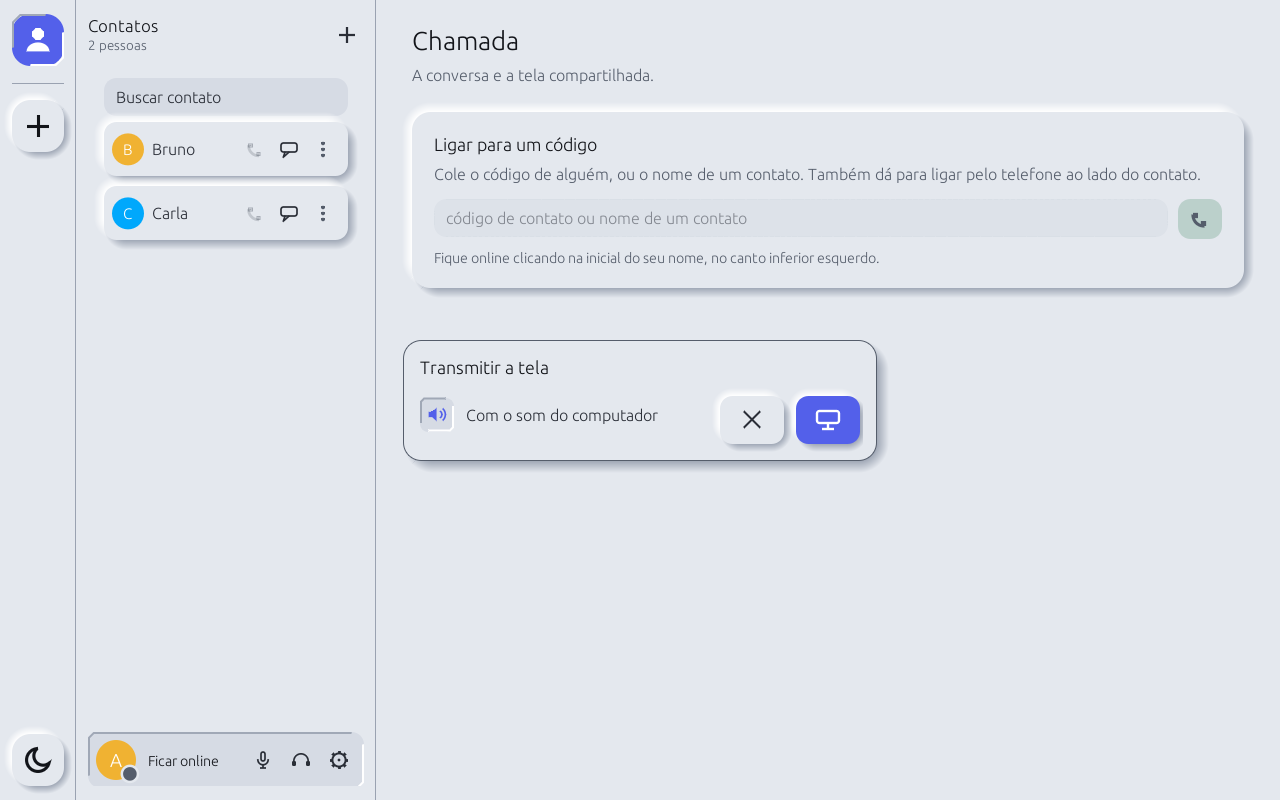
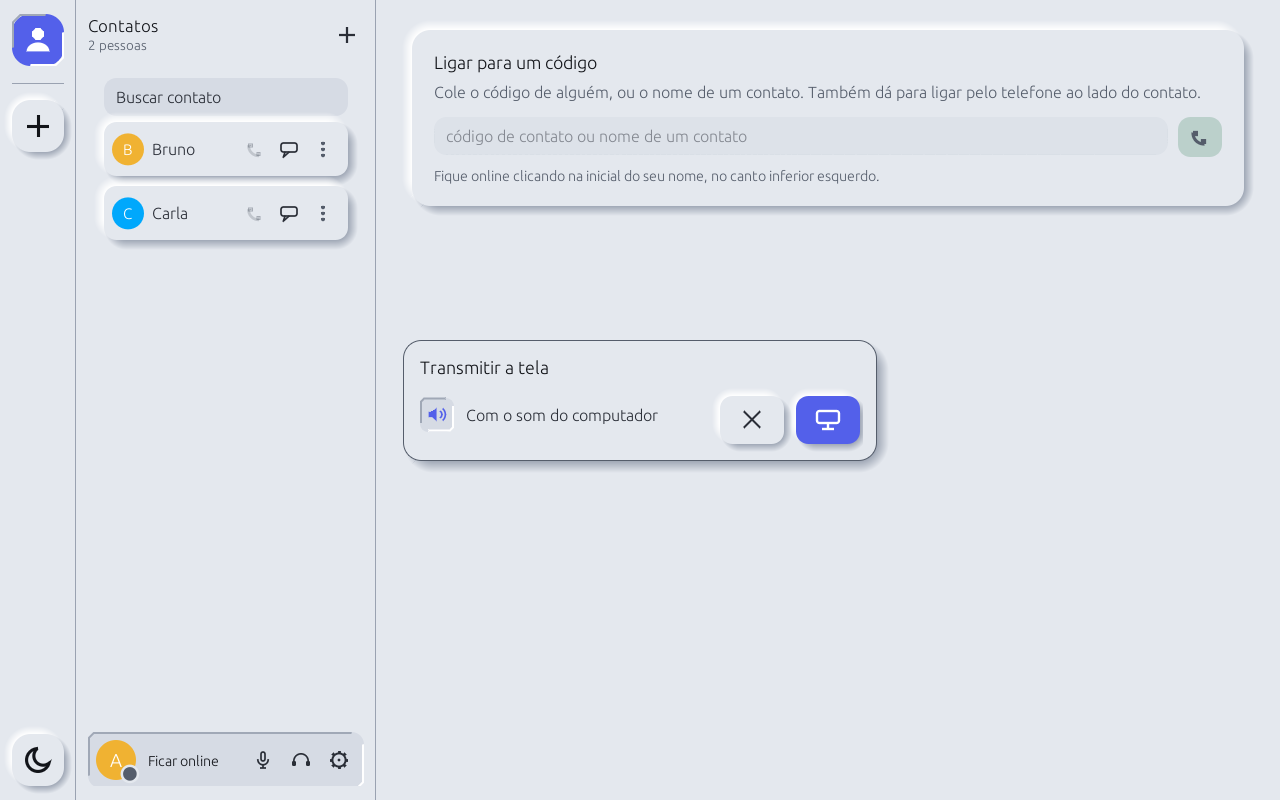
Chamada e conversa sem cabeçalho de página nem texto fixo: o que está abaixo já diz o que é; o aviso de que só vai a quem está online passa para o hover do título

Changed region(s): [[0.3125, 0.0312, 1.0, 0.3438], [0.3438, 0.3125, 0.9688, 0.375]]

diff --git a/examples/gui/conversa.rs b/examples/gui/conversa.rs
@@ -30,7 +30,8 @@ impl App {
         ui.scope(|ui| {
             ui.set_width(ui.available_width());
             ui.horizontal(|ui| {
-                ui.label(RichText::new(format!("Bate-papo com {name}")).strong().size(18.0).color(pal().strong));
+                ui.label(RichText::new(format!("Bate-papo com {name}")).strong().size(18.0).color(pal().strong))
+                    .on_hover_text("Só vai para quem está online. Cada um guarda a sua cópia nesta máquina.");
                 // Em chamada a conversa é a da linha: fechar não faz sentido.
                 if !self.shared.in_call.load(std::sync::atomic::Ordering::Relaxed) {
                     ui.with_layout(egui::Layout::right_to_left(egui::Align::Center), |ui| {
@@ -40,7 +41,6 @@ impl App {
                     });
                 }
             });
-            note(ui, "Só vai para quem está online. Cada um guarda a sua cópia nesta máquina.");
             ui.add_space(6.0);
             let height = (ui.clip_rect().bottom() - ui.cursor().top() - 84.0).max(160.0);
             egui::ScrollArea::vertical().id_salt(("conversa", peer)).max_height(height).min_scrolled_height(height).stick_to_bottom(true).auto_shrink([false, false]).show(ui, |ui| {

diff --git a/examples/gui/ui.rs b/examples/gui/ui.rs
@@ -439,8 +439,11 @@ impl eframe::App for App {
         self.rooms_panel(ctx, offline, calling, &status);
         self.members_panel(ctx, offline);
         egui::CentralPanel::default().frame(egui::Frame::new().fill(pal().bg).inner_margin(Margin::symmetric(36, 26))).show(ctx, |ui| {
-            let (title, subtitle) = self.title();
-            page_header(ui, title, &subtitle);
+            // Chamada e conversa não levam cabeçalho de página: o que está abaixo já diz o que é.
+            if !matches!(self.tab, Tab::Contacts | Tab::Call) {
+                let (title, subtitle) = self.title();
+                page_header(ui, title, &subtitle);
+            }
             if self.tab == Tab::Log {
                 self.log_tab(ui);
                 return;
